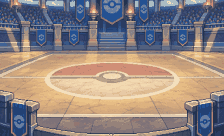
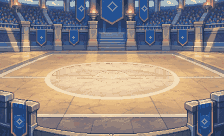
5.0/5: the gym backdrop's Poke Balls painted out at native size, as a converter step
The floor keeps a plain court ring; each banner's ball becomes a diamond,
the mark the map entrances' banners already wear. The other sixteen
backdrops carry none and regenerate byte identical.

Claude-Session: https://claude.ai/code/session_01S7yVH7byre6dQPNKakeYnS

diff --git a/scripts/visual/backdrops.py b/scripts/visual/backdrops.py
@@ -24,6 +24,15 @@ cropped: steps 2 to 4 only, written to `src/ui/assets/backdrops/map/<locale>.png
 from `stage5.0-map-backdrop-<locale>.webp`. A painting that is not 2:3 is
 cropped to it from the top, keeping the foot where the entrance is.
 
+**The gym's emblem, Stage 5.0/5** (`gymrun-stage5.0-rulings-stage5.md`, item
+3): the gym painting puts a Poke Ball on its floor and on all nine banners,
+and the plan's *"Where the reference is wrong"* refuses a Poke Ball logo. So
+after conversion the gym goes through `paint_out_gym_emblem`, at native size:
+the floor keeps its outer ring as a plain court circle, its red half, bar and
+centre ring replaced by the circle's own cream stone; each banner's ball
+becomes a diamond, the mark the map entrances' banners already wear. The other
+sixteen backdrops carry no Poke Ball (checked at 5.0/5) and are untouched.
+
 Tooling, not the game: it needs Pillow (`pip install pillow`), which nothing in
 the build or the test suite imports. Re-run it when the art changes.
 """
@@ -50,6 +59,75 @@ def convert(source: str, colors: int, native: tuple = NATIVE) -> Image.Image:
     return image.quantize(colors=colors, method=Image.Quantize.MEDIANCUT, dither=Image.Dither.NONE)
 
 
+# The gym painting's colours at native size, after quantisation.
+_RED = {(0xD0, 0x8F, 0x77), (0xB9, 0x84, 0x72)}
+_BAR = {(0xBB, 0xA3, 0x8B), (0xA9, 0x93, 0x82), (0xDF, 0xC8, 0xAC)}
+_BANNER = (0x24, 0x51, 0x92)
+_EMBLEM = {(0x69, 0x7E, 0x9F), (0x89, 0x8F, 0x9C), (0x40, 0x63, 0x96)}
+_MARK, _MARK_EDGE = (0x89, 0x8F, 0x9C), (0x69, 0x7E, 0x9F)
+# The floor ball: centre and the semi-axes of the ring's inside edge.
+_FLOOR = (112, 78, 63, 16)
+# Each banner's ball: centre, radius, and the diamond drawn in its place
+# (half-diagonal, and whether it is hollow).
+_BANNERS = (
+    (111.5, 6.1, 8.5, 5, True), (80.8, 7.7, 4.5, 3, True), (143.5, 7.7, 4.5, 3, True),
+    (40.9, 36.9, 2, 1, False), (73.3, 36.8, 2, 1, False), (149.7, 36.6, 2, 1, False), (182.1, 37.0, 2, 1, False),
+    (18.6, 120.9, 4.5, 3, True), (204.4, 120.6, 4.5, 3, True),
+)
+
+
+def paint_out_gym_emblem(image: Image.Image) -> Image.Image:
+    """The gym backdrop with its Poke Balls painted out. Native size in, native out."""
+    palette = image
+    rgb = image.convert('RGB')
+    out = rgb.copy()
+    cx, cy, rx, ry = _FLOOR
+
+    def inside(x: int, y: int) -> bool:
+        return ((x - cx) / rx) ** 2 + ((y - cy) / ry) ** 2 < 1
+
+    def emblem(x: int, y: int) -> bool:
+        if not inside(x, y):
+            return False
+        pixel = rgb.getpixel((x, y))
+        return pixel in _RED or (pixel in _BAR and 70 <= y <= 84)
+
+    # The floor: each emblem pixel takes the stone from the circle's lower
+    # half in its own column, mirrored, so the texture carries on.
+    for y in range(rgb.height):
+        for x in range(rgb.width):
+            if not emblem(x, y):
+                continue
+            start = 2 * 80 - y + 2 if y < 80 else y + 6
+            source = next((85 + (start - 85 + k) % 8 for k in range(12)
+                           if inside(x, 85 + (start - 85 + k) % 8) and not emblem(x, 85 + (start - 85 + k) % 8)), None)
+            out.putpixel((x, y), rgb.getpixel((x, source)) if source is not None else (0xEE, 0xD2, 0xAA))
+
+    # The banners: the ball goes to banner blue, a diamond goes on.
+    for bx, by, radius, half, hollow in _BANNERS:
+        for y in range(int(by - radius - 2), int(by + radius + 3)):
+            for x in range(int(bx - radius - 2), int(bx + radius + 3)):
+                if (x - bx) ** 2 + (y - by) ** 2 <= (radius + 1.2) ** 2 and rgb.getpixel((x, y)) in _EMBLEM:
+                    out.putpixel((x, y), _BANNER)
+        ix, iy = round(bx), round(by)
+        for y in range(iy - half, iy + half + 1):
+            for x in range(ix - half, ix + half + 1):
+                distance = abs(x - ix) + abs(y - iy)
+                if distance > half or (hollow and distance <= half - 2):
+                    continue
+                out.putpixel((x, y), _MARK if distance < half or not hollow else _MARK_EDGE)
+
+    # Every colour used is already in the palette, so each maps back to its
+    # own index. Not `quantize(palette=...)`, which snaps near-twins together.
+    flat = palette.getpalette()
+    index = {}
+    for i in range(len(flat) // 3):
+        index.setdefault(tuple(flat[3 * i:3 * i + 3]), i)
+    result = palette.copy()
+    result.putdata([index[out.getpixel((x, y))] for y in range(out.height) for x in range(out.width)])
+    return result
+
+
 def main() -> None:
     parser = argparse.ArgumentParser()
     parser.add_argument('source', help='directory holding stage5.0-battle-backdrop-<region>.webp')
@@ -64,7 +142,10 @@ def main() -> None:
             print(f'skip {region}: no source')
             continue
         target = os.path.join(out, f'{region}.png')
-        convert(source, args.colors, native).save(target, optimize=True)
+        image = convert(source, args.colors, native)
+        if kind == 'battle' and region == 'gym':
+            image = paint_out_gym_emblem(image)
+        image.save(target, optimize=True)
         print(f'{region}: {os.path.getsize(target)} bytes')
 
 
